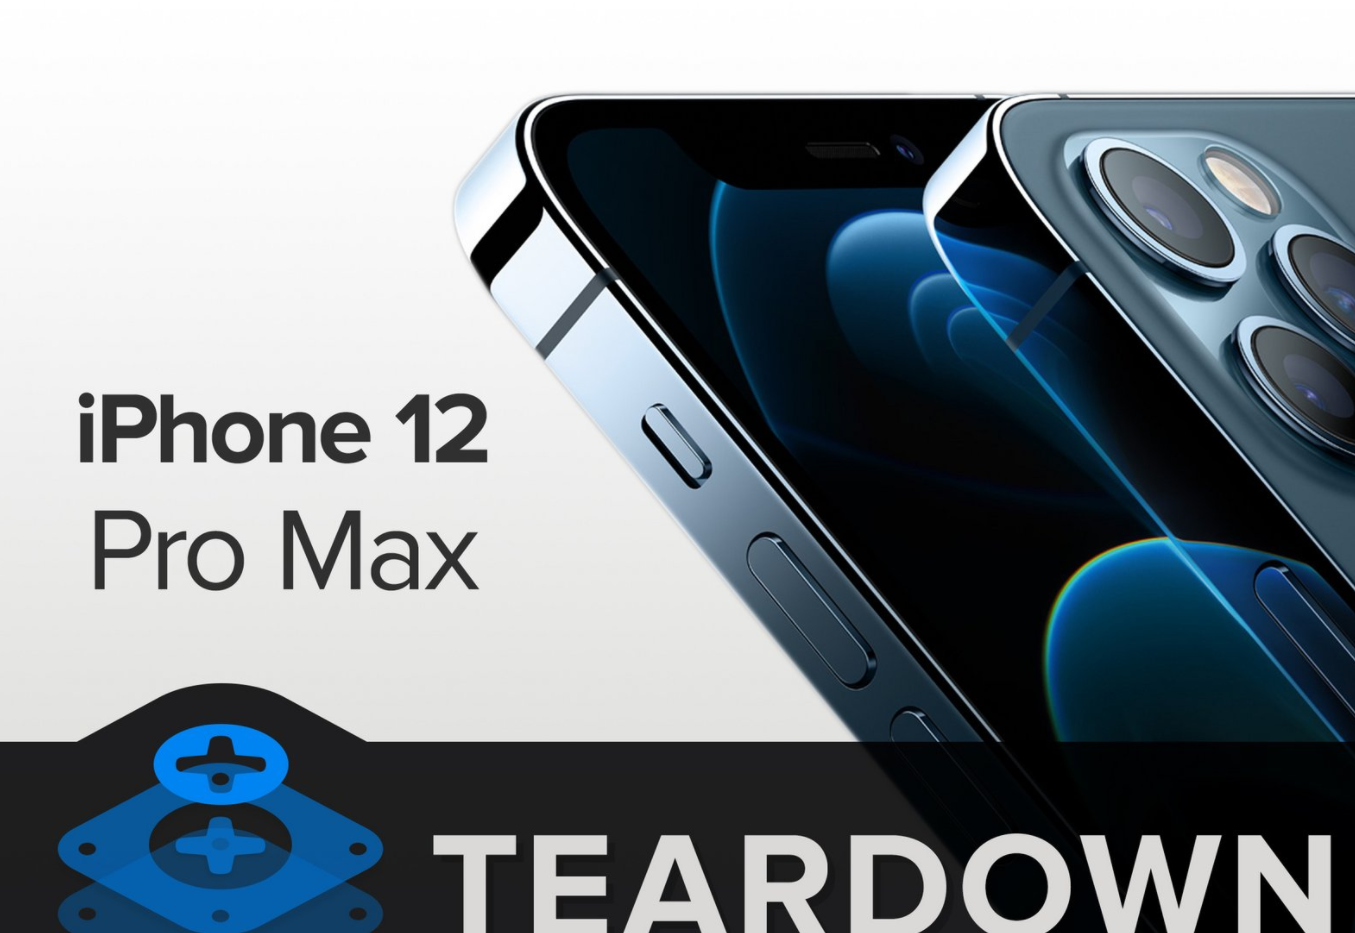
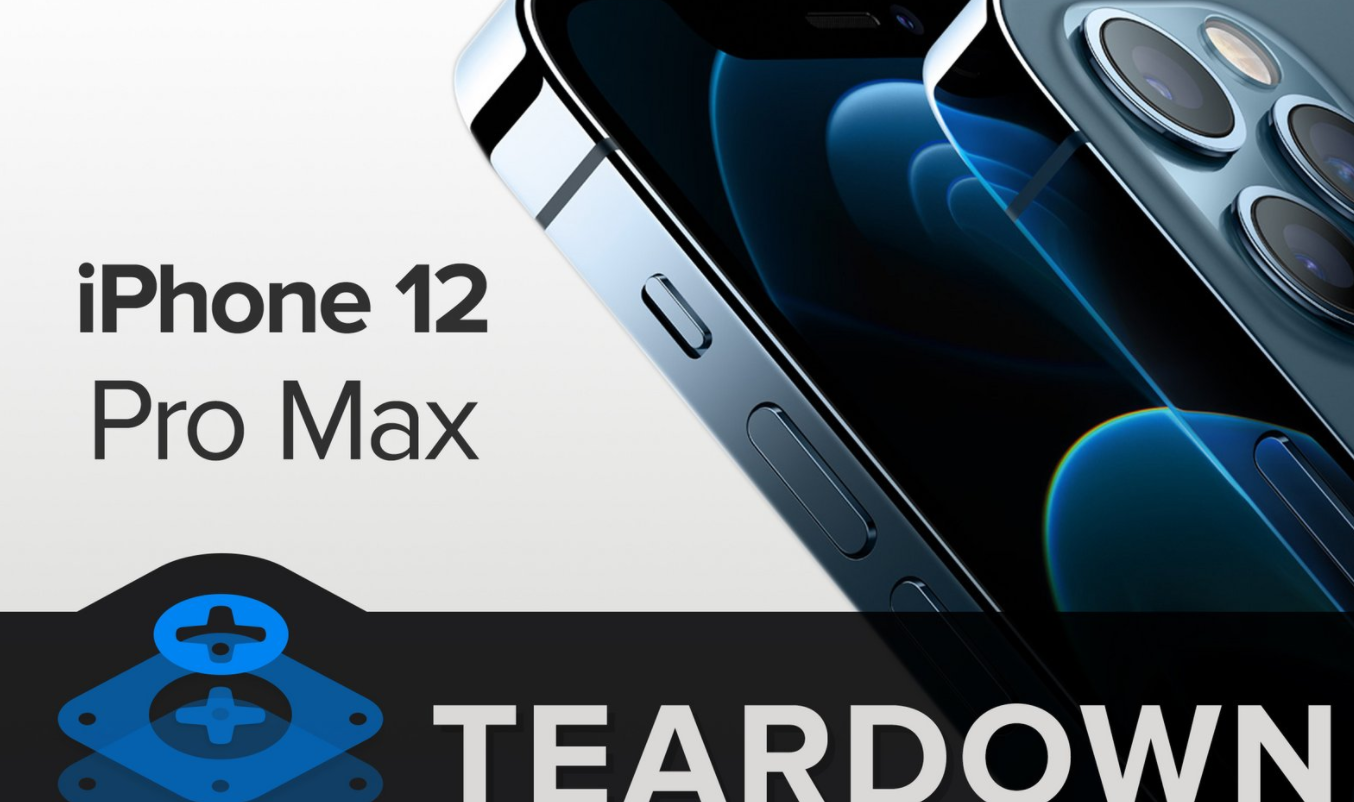
(commit on 'Laura')

diff --git a/visualizarManual/visualizarManual.css b/visualizarManual/visualizarManual.css
@@ -2,43 +2,89 @@
     box-sizing: border-box;
 }
 
-
 body {
     margin: 2vh;
     box-shadow: 0 9px 0px 0px white, 0 -9px 0px 0px white, 5px 0 10px -4px #626267, -5px 0 10px -4px #626267;
 }
 
+section,
+article {
+    margin: 1vh;
+}
+
+img {
+    object-fit: cover;
+}
+
 #amarilloMadre,
-#amarilloMadre h1,
-#amarilloMadre img{
+#amarilloMadre h2,
+#amarilloMadre img,
+.paso img {
     width: 100%;
 }
 
 #amarilloMadre,
-#amarilloMadre img{
+#amarilloMadre img,
+.paso img {
     max-height: 15vh;
 }
 
 #amarilloMadre {
+    display: flex;
+    align-self: stretch;
     position: relative;
     text-align: center;
     background-color: #EFC227;
 }
 
 #amarilloMadre img {
-    object-fit: cover;
+    opacity: 0.4;
 }
 
-#amarilloMadre h1 {
-    position: absolute; 
-    top: 20%;
+#amarilloMadre h2 {
+    position: absolute;
     color: white;
+    text-shadow: 0px 1px 5px #626267;
 }
 
-img{
-    width: 4vh;
-    max-height: 4vh;
-    opacity:0.4;
+@media(max-width: 250px) {
+    h2 {
+        font-size: large;
+    }
+}   
+
+button,
+img:not(#amarilloMadre img),
+h3,
+p {
+    border-radius: 8px;
+}
+
+button {
+    background-color: #53B3CB;
+    margin: 1vh;
+    text-transform: uppercase;
+    color: #626267;
+    font-size: 2vh;
+    width: max-content;
+    border: none;
+    padding: 1% 4%;
+    cursor: pointer;
+}
+
+button span {
+    display: none;
+}
+
+#infoManual img {
+    width: 100%;
+    max-height: 30%;
+}
+
+#infoManual p {
+    background-color: #F15946;
+    color: white;
+    opacity: 0.8;
 }
 
 hr {
@@ -46,6 +92,10 @@ hr {
     height: 3px;
 }
 
+h3,
+p {
+    padding: 1vh;
+}
 
 h3,
 h4,
@@ -53,8 +103,16 @@ p {
     color: #626267;
 }
 
-h3 {
+h3:not(.pasoTitulo) {
+    text-align: center;
     background-color: white;
-    border-radius: 8px;
     box-shadow: 0 10px 10px -5px #626267;
+}
+
+.paso p {
+    margin: 0%;
+}
+
+article div:last-of-type hr:last-of-type {
+    display: none;
 }

diff --git a/visualizarManual/visualizarManual.php b/visualizarManual/visualizarManual.php
@@ -11,7 +11,7 @@
     <section>
         <div id="amarilloMadre">
             <img src="Imagenes/paso1.jpg" alt="Imagen paso">
-            <h1>Desmontaje del iPhone 12 Pro Max</h1>
+            <h2>Desmontaje del iPhone 12 Pro Max </h2>
         </div>
         <button class="botonVolver">Volver<span> a manuales</span></button>
 
@@ -29,8 +29,8 @@
                 Hablando de dar: para poner fin a esta épica ola de desmontajes, regalamos a tres afortunados un Minnow Driver Kit! Aunque tendrás que trabajar para ello. Para poner a prueba la cámara del iPhone 12 Pro Max, la usamos para tomar en secreto dos fotos en este desmontaje con la Aplicación de cámara Halide. "Usa este formulario para adivinar correctamente qué dos pasos de abajo contienen una foto tomada en el iPhone, y entrarás para ganar.
             </p>
         </div>
-        <div>
-            <h4>Paso 1: </h4>
+        <div class="paso">
+            <h3 class="pasoTitulo">Paso 1: </h3>
             <p>Desmontaje del iPhone 12 Pro Max </p>
             <img src="Imagenes/paso1.jpg" alt="">
             <p>
@@ -44,8 +44,8 @@
             </p>
             <hr>
         </div>
-        <div>
-            <h4>Paso 2: </h4>
+        <div class="paso">
+            <h3 class="pasoTitulo">Paso 2: </h3>
             <p>En caso de que no lo hayas oído, el cuadrado es redondo... de nuevo.</p>
             <img src="Imagenes/paso2.jpg" alt="">
             <p>
@@ -57,8 +57,8 @@
             </p>
             <hr>
         </div>
-        <div>
-            <h4>Paso 3: </h4>
+        <div class="paso">
+            <h3 class="pasoTitulo">Paso 3: </h3>
             <p></p>
             <img src="Imagenes/paso3.jpg" alt="">
             <p>
